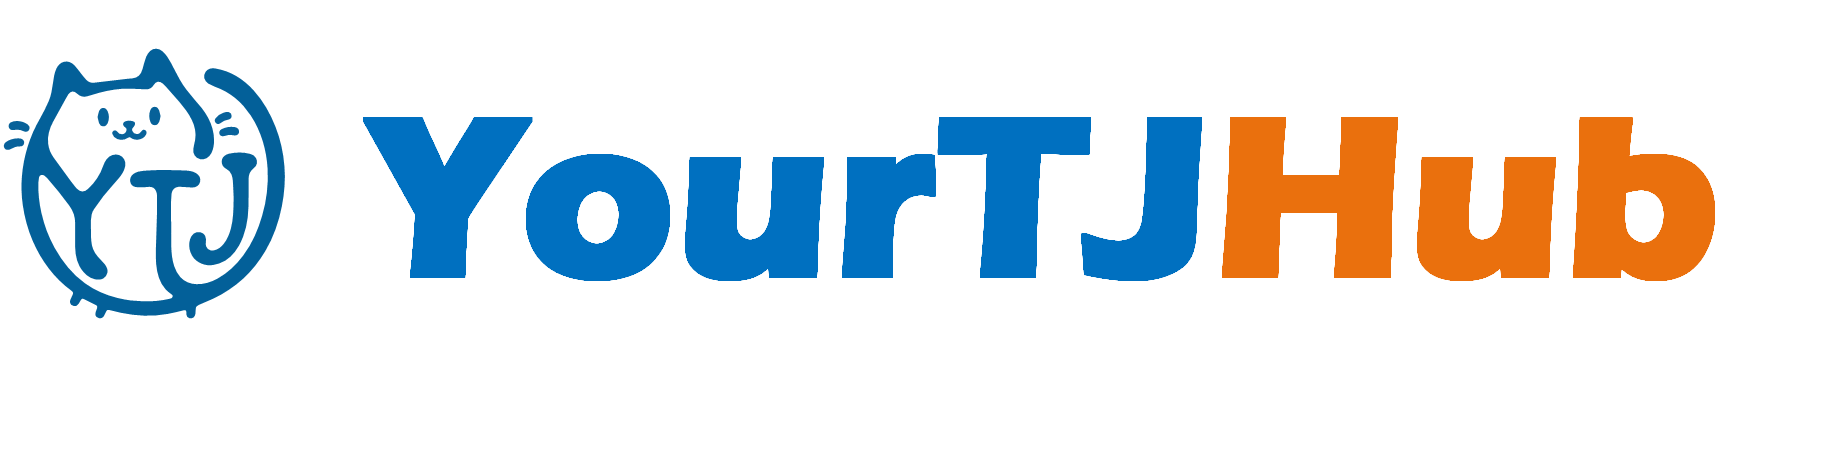
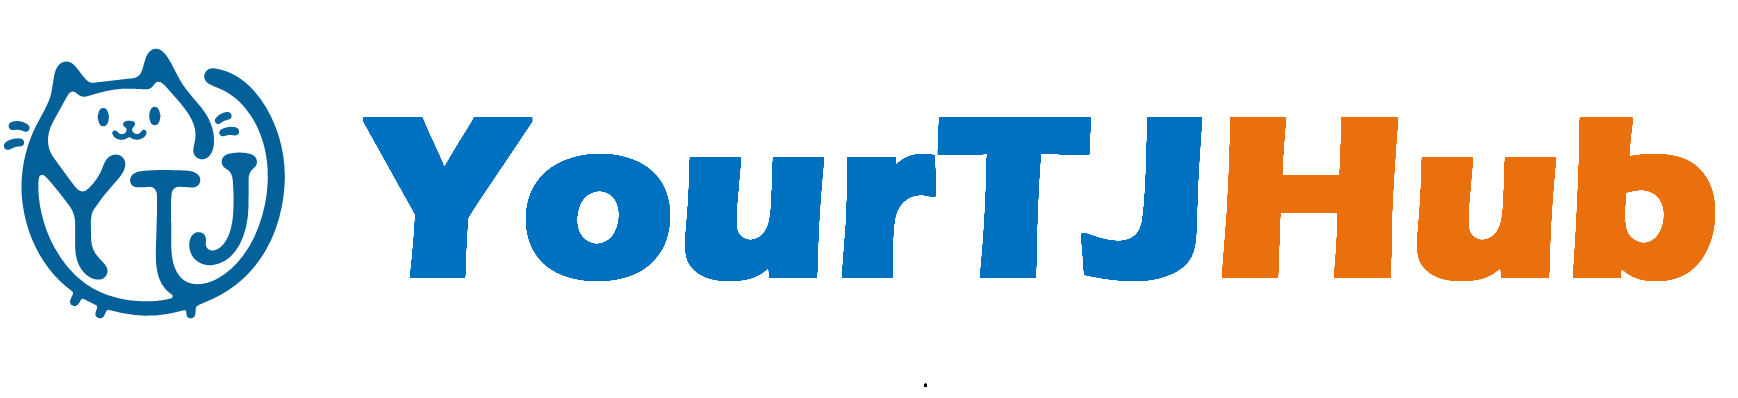
fix: restore Vditor dark body text and default brand assets
Load local content-theme CSS so dark-mode editor body text is readable,
re-attach fullscreen toolbar labels after official innerHTML icon swaps,
and regenerate brand-default bitmaps from hublogo.png for web and mobile.

Changed region(s): [[0.0, 0.0905, 0.9942, 0.8141]]

diff --git a/apps/gooseforum/resource/src/site/components/VditorOfficial.vue b/apps/gooseforum/resource/src/site/components/VditorOfficial.vue
@@ -10,6 +10,8 @@ import zhUrl from 'vditor/dist/js/i18n/zh_CN.js?url'
 import katexJsUrl from 'katex/dist/katex.min.js?url'
 import katexChemUrl from 'katex/dist/contrib/mhchem.min.js?url'
 import katexCssUrl from 'katex/dist/katex.min.css?url'
+import contentThemeLightCssUrl from 'vditor/dist/css/content-theme/light.css?url'
+import contentThemeDarkCssUrl from 'vditor/dist/css/content-theme/dark.css?url'
 import hljsLightCssUrl from 'highlight.js/styles/github.css?url'
 import hljsDarkCssUrl from 'highlight.js/styles/github-dark.css?url'
 import hljs from 'highlight.js'
@@ -32,6 +34,8 @@ import { useI18n } from 'vue-i18n'
  *   #vditorHljsThirdScript 让官方流程直接进入高亮逻辑
  * - katex.min.js / mhchem.min.js 用 loadRuntimeScript 预载（带官方 id）
  * - KaTeX 样式由 link#vditorKatexStyle 提供；高亮样式由自定义 link 按主题切换
+ * - content-theme light/dark 由 syncContentTheme 本地切换（path 为空时官方不会加载；
+ *   另用 CSS 把 .vditor-reset 绑到 --textarea-text-color，避免深色正文仍用 #24292e）
  *
  * 站点集成：v-model 双向、上传经 upload 事件交宿主处理、卸载销毁。
  * 不做任何样式覆盖或功能裁剪——保持官版外观与行为。
@@ -69,6 +73,8 @@ const root = ref<HTMLElement | null>(null)
 let editor: Vditor | null = null
 let destroyed = false
 let ready = false
+/** 监听全屏按钮 childList：官方用 innerHTML 换图标会冲掉按钮内小字 */
+let fullscreenLabelObserver: MutationObserver | null = null
 
 /**
  * 官方默认工具栏（vditor src/ts/util/Options.ts），调整：
@@ -256,6 +262,26 @@ function mathToolbarItems(): IMenuItem[] {
   return [mathInline, mathBlock]
 }
 
+/**
+ * 正文 content-theme：官方 index.css 把 .vditor-reset 写死为 #24292e，
+ * 深色正文色只在 content-theme/dark.css 里覆盖。
+ * 本组件 cdn/path 为空（离线），setContentTheme 不会加载样式，
+ * 这里按站点深浅色自行切换 light/dark 主题表（与 hljs 同套路）。
+ */
+const CONTENT_THEME_LINK_ID = 'hubVditorContentTheme'
+function syncContentTheme() {
+  const themeName = isDark.value ? 'dark' : 'light'
+  const existing = document.getElementById(CONTENT_THEME_LINK_ID) as HTMLLinkElement | null
+  if (existing && existing.dataset.theme === themeName) return
+  existing?.remove()
+  const link = document.createElement('link')
+  link.id = CONTENT_THEME_LINK_ID
+  link.rel = 'stylesheet'
+  link.dataset.theme = themeName
+  link.href = isDark.value ? contentThemeDarkCssUrl : contentThemeLightCssUrl
+  document.head.appendChild(link)
+}
+
 /** 高亮主题样式：与站点深浅色联动，替换 link 实现（不依赖 vditor 内置主题切换） */
 const HIGHLIGHT_THEME_LINK_ID = 'hubVditorHljsTheme'
 function syncHighlightTheme() {
@@ -315,33 +341,65 @@ function toolbarLabel(type: string): string {
   return window.VditorI18n?.[type] || ''
 }
 
+/**
+ * 在工具栏按钮内部补/保「图标下小字」（不挪到按钮外）。
+ * 全屏等会 innerHTML 整按钮，需可重复调用。
+ */
+function ensureToolbarButtonLabel(item: HTMLElement) {
+  const type = item.getAttribute('data-type') || ''
+  const labelText =
+    toolbarLabel(type) ||
+    (item.getAttribute('aria-label') || '').replace(HOTKEY_PATTERN, '').trim()
+  if (!labelText) return
+
+  const existing = item.querySelector<HTMLElement>(':scope > .vditor-toolbar-label')
+  if (existing) {
+    if (existing.textContent !== labelText) existing.textContent = labelText
+    return
+  }
+
+  const span = document.createElement('span')
+  span.className = 'vditor-toolbar-label'
+  span.textContent = labelText
+  item.appendChild(span)
+}
+
+/**
+ * 官方 Fullscreen 进入/退出时执行：
+ *   this.innerHTML = '<svg>…' / menuItem.icon
+ * 会清掉我们塞在 button 内的小字。监听 childList，仍在按钮内补回（不外置）。
+ */
+function guardFullscreenToolbarLabel() {
+  const button = root.value?.querySelector<HTMLElement>(
+    '.vditor-toolbar__item > [data-type="fullscreen"]',
+  )
+  if (!button) return
+
+  fullscreenLabelObserver?.disconnect()
+  fullscreenLabelObserver = new MutationObserver(() => {
+    if (destroyed || !button.isConnected) {
+      fullscreenLabelObserver?.disconnect()
+      fullscreenLabelObserver = null
+      return
+    }
+    ensureToolbarButtonLabel(button)
+  })
+  fullscreenLabelObserver.observe(button, { childList: true })
+}
+
 function attachToolbarLabels() {
   // 移动端保持官方 sweet-mobile 纯图标工具栏（44px 触控高度），不注入文字标签
   if (!root.value || window.matchMedia(MOBILE_VIEWPORT_QUERY).matches) return
   root.value.querySelectorAll<HTMLElement>('.vditor-toolbar__item .vditor-tooltipped').forEach((item) => {
-    if (item.querySelector('.vditor-toolbar-label')) return
-    const type = item.getAttribute('data-type') || ''
-    const label =
-      toolbarLabel(type) ||
-      (item.getAttribute('aria-label') || '').replace(HOTKEY_PATTERN, '').trim()
-    if (!label) return
-    const span = document.createElement('span')
-    span.className = 'vditor-toolbar-label'
-    span.textContent = label
-    item.appendChild(span)
+    ensureToolbarButtonLabel(item)
   })
   // more 子菜单：vditor 的 Custom 类会把自定义项（公式等）强制渲染成纯图标、
   // 覆盖 level-2 的文字 tip；这里给含 svg 的项补上文字标签，保持菜单项可读
   root.value.querySelectorAll<HTMLElement>('.vditor-hint button[data-type]').forEach((item) => {
     if (!item.querySelector('svg') || item.querySelector('.vditor-toolbar-label')) return
-    const type = item.getAttribute('data-type') || ''
-    const label = toolbarLabel(type)
-    if (!label) return
-    const span = document.createElement('span')
-    span.className = 'vditor-toolbar-label'
-    span.textContent = label
-    item.appendChild(span)
+    ensureToolbarButtonLabel(item)
   })
+  guardFullscreenToolbarLabel()
   attachTooltipSmartPosition()
 }
 
@@ -422,6 +480,7 @@ function syncEditorTheme() {
   if (editor.vditor.options.preview?.theme) {
     editor.vditor.options.preview.theme.current = isDark.value ? 'dark' : 'light'
   }
+  syncContentTheme()
   syncHighlightTheme()
 }
 
@@ -695,6 +754,7 @@ onMounted(async () => {
           return
         }
         ready = true
+        syncContentTheme()
         syncHighlightTheme()
         attachToolbarLabels()
         // 大纲初始展开：enable 只是配置，需 toggle 后面板才显示（官方 Outline 按钮同逻辑）
@@ -730,6 +790,8 @@ watch(isDark, syncEditorTheme)
 
 onBeforeUnmount(() => {
   destroyed = true
+  fullscreenLabelObserver?.disconnect()
+  fullscreenLabelObserver = null
   const currentEditor = editor
   editor = null
   // 与官方 beforeDestroy 一致：ready 后直接 destroy；未 ready 时由 after() 兜底。
@@ -795,6 +857,16 @@ defineExpose({ focus, getValue, insertMarkdown, setHeight, syncValue })
 
 .vditor-official .vditor-reset ol ol ol {
   list-style-type: lower-roman;
+}
+
+/*
+ * 正文文字色：官方 index.css 写死 .vditor-reset { color: #24292e }，
+ * 不读 --textarea-text-color；.vditor--dark 只换 chrome token。
+ * content-theme 异步加载前用 chrome token 立即跟主题，避免深色下仍是深色字。
+ * 选择器加 .vditor-official 提高特异性，压过官方 content-theme 的硬编码色。
+ */
+.vditor-official .vditor-reset {
+  color: var(--textarea-text-color);
 }
 
 /*

diff --git a/docs/product/current-state.md b/docs/product/current-state.md
@@ -32,7 +32,7 @@
 | Contract | `Partial` | OpenAPI 3.1 currently covers password login, mobile OIDC exchange and topic writing; Redocly lint/bundle, generated TypeScript no-diff checks, committed fixtures and real Gin route tests are in CI; Dart generation and broader route coverage remain `Planned` |
 | Mobile | `Partial` | Flutter client (`apps/mobile`, melos: core/auth/ui_kit/forum_app) implemented: YourTJ token theme bridged into pinned TDesign v1 alpha components, iOS-safe branded navigation, Web-aligned persistent list/card topic feeds, dot-grid auth cards, unified Gf form/dialog/status surfaces, browsing/creation/user/search/notification/IM surfaces, OIDC exchange login; CI `ci-mobile`; not yet deployed to stores (push notifications/custom theme sync/ja-it planned later) |
 | Points | `Planned` | services/credit is a README placeholder; explicitly phase 2, not implemented now |
-| Branding | `Partial` | Default UI copy, activation template, locales and admin brand settings rebranded to YourTJHub (2026-08-07); CLI name (`gooseforum`) and Go module name intentionally kept for upstream merge |
+| Branding | `Partial` | Default UI copy, activation template, locales and admin brand settings rebranded to YourTJHub (2026-08-07); default wordmark assets `resource/static/pic/brand-default.{png,webp}` + mobile `assets/images/brand-default.png` regenerated from `hublogo.png` (transparent RGBA, 2026-08-09); admin `brandType=image` still overrides with uploaded `/file/img/…`; CLI name (`gooseforum`) and Go module name intentionally kept for upstream merge |
 | Structural governance | `Partial` | Upstream giant controllers (payload.go 72KB etc.) not split; architecture decisions in note |
 | Storage (files) | `Current` | Pluggable storage: local SQLite BLOB default + S3-compatible object storage (MinIO/COS/OSS/R2), admin panel config + connection test, cursor-driven BLOB→object migration task + `migrate-files` CLI (2026-08-06) |
 | Moderation policy | `Current` | Reserved/banned usernames, sensitive-word block or review (ProcessStatus=2 pending queue with admin approve/reject), banned username auto-freezes existing accounts, moderation audit logs (2026-08-06) |

diff --git a/apps/gooseforum/docs/architecture/markdown-rendering.md b/apps/gooseforum/docs/architecture/markdown-rendering.md
@@ -137,6 +137,10 @@ validation, compression, upload, paste, and drag-and-drop handling remain in
 the publish page. A separate Markdown preview is not exposed because Vditor
 already provides WYSIWYG authoring. It does not use an external CDN. Vditor
 HTML is editor state only; the submitted value remains Markdown.
+Dark/light chrome uses Vditor `setTheme`; body text color follows via a local
+`content-theme` stylesheet swap plus a CSS binding of `.vditor-reset` to
+`--textarea-text-color` (Vditor's base CSS hardcodes light text color, and an
+empty `preview.theme.path` would otherwise skip content-theme loading).
 
 The current client preview renderer is centralized in
 `resource/src/runtime/markdown.ts`. Pages should call this helper instead of
